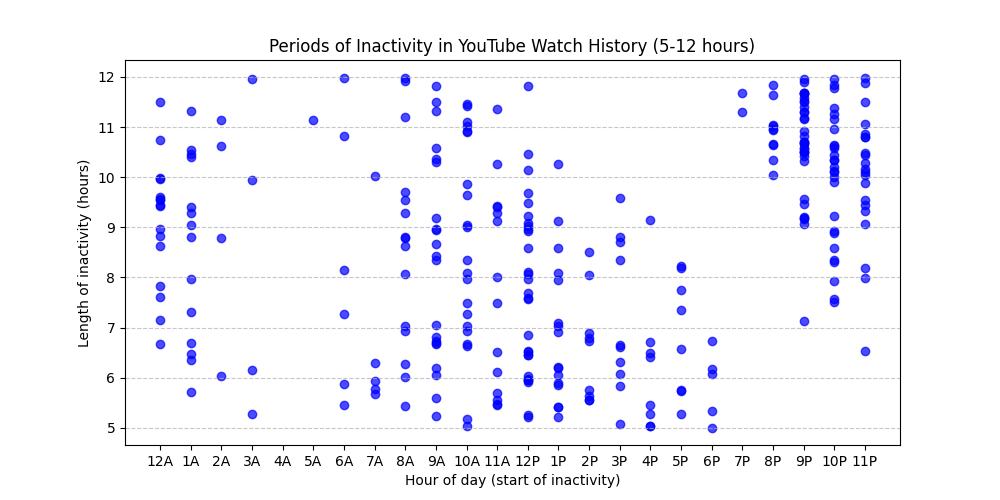
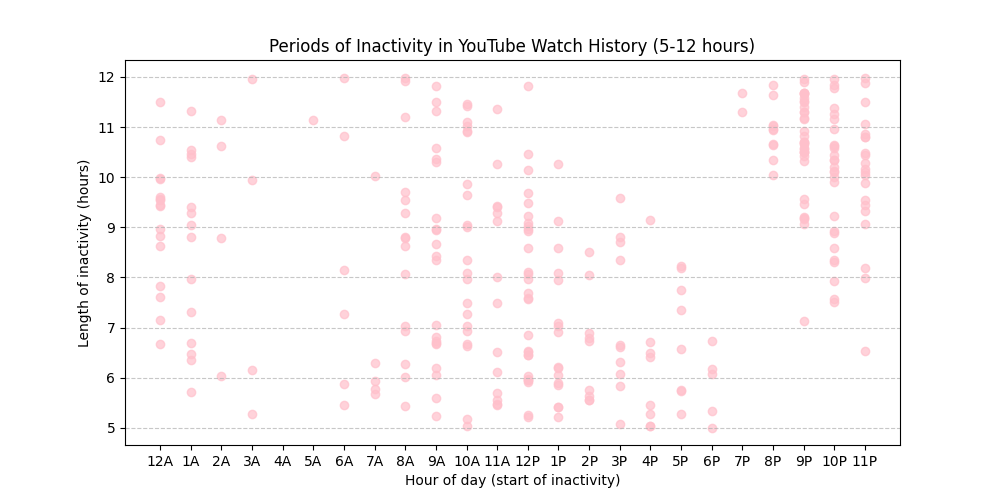
Afton's YouTube Inactivity

diff --git a/Afton_SleepTimes.py b/Afton_SleepTimes.py
@@ -1,35 +1,55 @@
 import re
 import os
+import json
+import pandas as pd
 import matplotlib.pyplot as plt
-import numpy as np
 from datetime import datetime
 
-def extract_datetimes(file_path):
+# File paths
+html_file_path = r"C:\Users\equus\CS4501\watch-history.html"
+json_file_path = r"C:\Users\equus\CS4501\History.json"
+
+# Function to extract timestamps from YouTube HTML file
+def extract_html_datetimes(file_path):
     if not os.path.exists(file_path):
-        print("Error: File not found. Check the path:", file_path)
-        exit()
+        print("Error: YouTube file not found. Check the path:", file_path)
+        return []
     
     with open(file_path, 'r', encoding='utf-8') as file:
         content = file.read()
     
-    # Regular expression to find date and time combinations
     datetime_pattern = re.compile(r'([A-Za-z]{3} \d{1,2}, \d{4}, \d{1,2}:\d{2}:\d{2}\s?[AP]M)')
     matches = datetime_pattern.findall(content)
     
-    # Convert extracted datetime strings to datetime objects
-    datetime_objects = [datetime.strptime(dt, '%b %d, %Y, %I:%M:%S %p') for dt in matches]
-    
-    return sorted(datetime_objects)
+    return sorted(datetime.strptime(dt, '%b %d, %Y, %I:%M:%S %p') for dt in matches)
 
+# Function to extract timestamps from Chrome JSON file
+def extract_json_datetimes(file_path):
+    if not os.path.exists(file_path):
+        print("Error: Chrome file not found. Check the path:", file_path)
+        return []
+    
+    with open(file_path, 'r') as file:
+        data = json.load(file)
+
+    chrome_history = data.get('Chrome Browser History', [])
+    
+    timestamps = []
+    for entry in chrome_history:
+        timestamp = entry.get('time_usec', 0)
+        if timestamp:
+            timestamps.append(datetime.utcfromtimestamp(timestamp / 1_000_000))
+    
+    return sorted(timestamps)
+
+# Function to determine sleep periods from combined data
 def find_sleep_periods(datetimes):
     sleep_data = []
-
     if not datetimes:
         return sleep_data
 
     daily_gaps = {}
 
-    # Identify longest inactivity per day
     for i in range(1, len(datetimes)):
         prev, curr = datetimes[i-1], datetimes[i]
         gap = (curr - prev).total_seconds() / 3600  # Convert to hours
@@ -38,15 +58,13 @@ def find_sleep_periods(datetimes):
         sleep_start_hour, wake_hour = prev.hour, curr.hour
         
         if prev_date not in daily_gaps or gap > daily_gaps[prev_date][1]:
-            # Ensure sleep start is between 8 PM (20) - 5 AM (5) and wake-up is between 5 AM (5) - 2 PM (14)
+            # Ensure sleep start is between 8 PM - 5 AM and wake-up is between 5 AM - 2 PM
             if (20 <= sleep_start_hour or sleep_start_hour < 5) and (5 <= wake_hour < 14):
                 daily_gaps[prev_date] = (sleep_start_hour, wake_hour)
 
-    # Extract sleep start and wake-up times
-    sleep_data = list(daily_gaps.values())
-    
-    return sleep_data
+    return list(daily_gaps.values())
 
+# Function to plot sleep patterns
 def plot_sleep_patterns(sleep_data):
     if not sleep_data:
         print("No sleep data found.")
@@ -77,9 +95,15 @@ def plot_sleep_patterns(sleep_data):
     plt.tight_layout()
     plt.show()
 
-# Specify the path to your file
-file_path = r"C:\Users\equus\CS4501\watch-history.html"
+# Extract timestamps from both sources
+html_datetimes = extract_html_datetimes(html_file_path)
+json_datetimes = extract_json_datetimes(json_file_path)
 
-datetimes = extract_datetimes(file_path)
-sleep_data = find_sleep_periods(datetimes)
+# Merge and sort both datasets
+all_datetimes = sorted(html_datetimes + json_datetimes)
+
+# Find sleep periods
+sleep_data = find_sleep_periods(all_datetimes)
+
+# Plot results
 plot_sleep_patterns(sleep_data)

diff --git a/Afton_HTML_inactivity.py b/Afton_HTML_inactivity.py
@@ -1,0 +1,51 @@
+import re
+import os
+import matplotlib.pyplot as plt
+import numpy as np
+from datetime import datetime
+
+def extract_datetimes(file_path):
+    if not os.path.exists(file_path):
+        print("Error: File not found. Check the path:", file_path)
+        exit()
+    
+    with open(file_path, 'r', encoding='utf-8') as file:
+        content = file.read()
+    
+    # Regular expression to find date and time combinations
+    datetime_pattern = re.compile(r'([A-Za-z]{3} \d{1,2}, \d{4}, \d{1,2}:\d{2}:\d{2}\s?[AP]M)')
+    matches = datetime_pattern.findall(content)
+    
+    # Convert extracted datetime strings to datetime objects
+    datetime_objects = [datetime.strptime(dt, '%b %d, %Y, %I:%M:%S %p') for dt in matches]
+    
+    return sorted(datetime_objects)
+
+def plot_inactivity_periods(datetimes):
+    inactivity_start_hours = []
+    inactivity_lengths = []
+    
+    for i in range(1, len(datetimes)):
+        gap = (datetimes[i] - datetimes[i-1]).total_seconds() / 3600  # Convert gap to hours
+        if 5 <= gap <= 12:  # Consider inactivity only if the gap is between 5 and 12 hours
+            inactivity_start_hours.append(datetimes[i-1].hour)
+            inactivity_lengths.append(gap)
+    
+    plt.figure(figsize=(10, 5))
+    plt.scatter(inactivity_start_hours, inactivity_lengths, color='pink', alpha=0.7)
+    plt.xlabel("Hour of day (start of inactivity)")
+    plt.ylabel("Length of inactivity (hours)")
+    plt.title("Periods of Inactivity in YouTube Watch History (5-12 hours)")
+    
+    # Format x-axis labels as 12A, 1A, ..., 12P, 1P, ..., 11P
+    hour_labels = ["12A"] + [f"{h}A" for h in range(1, 12)] + ["12P"] + [f"{h}P" for h in range(1, 12)]
+    plt.xticks(range(24), hour_labels)
+    
+    plt.grid(axis='y', linestyle='--', alpha=0.7)
+    plt.show()
+
+# Specify the path to your file
+file_path = r"C:\Users\equus\CS4501\watch-history.html"
+
+datetimes = extract_datetimes(file_path)
+plot_inactivity_periods(datetimes)
